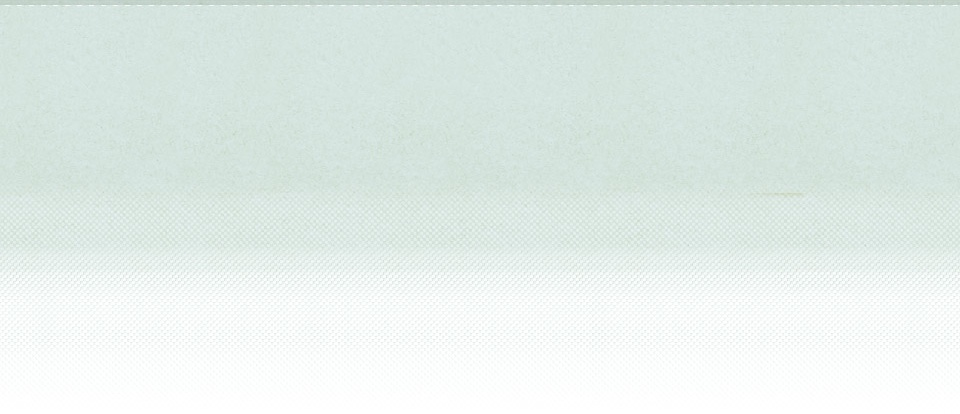
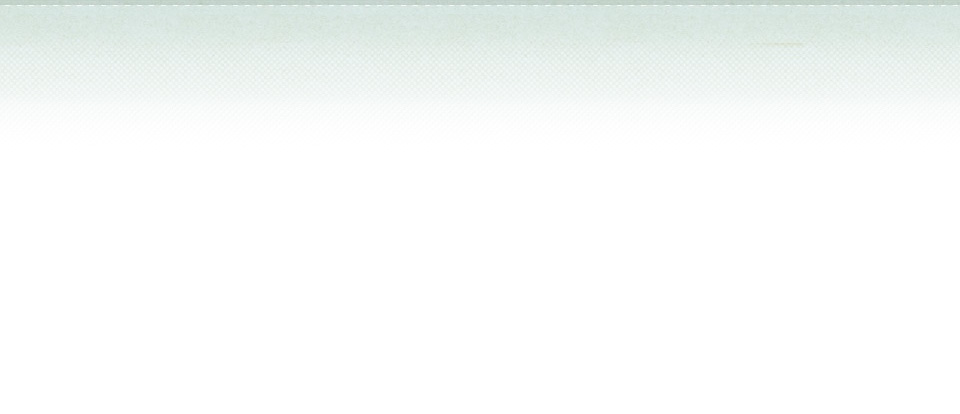
nav updates, changed media url

diff --git a/media/styles/clearspending.css b/media/styles/clearspending.css
@@ -7,10 +7,10 @@
 body,div,dl,dt,dd,ul,ol,li,h1,h2,h3,h4,h5,h6,pre,form,fieldset,input,textarea,optgroup,button,p,blockquote,th,td{margin:0;padding:0;}h1,h2,h3,h4,h5,h6{font-size:100%;font-weight:normal;}table{border-collapse:collapse;border-spacing:0;}caption,th{text-align:left;}ol,ul{list-style:none;}fieldset,img{border:0;}input,textarea,select,optgroup,option,button{font-family:inherit;font-size:100%;}button,input {width: auto;overflow: visible;}optgroup,address,caption,cite,code,dfn,em,strong,th,var{font-style:normal;font-weight:normal;}q:before,q:after{content:'';}abbr,acronym {border:0;}
 dl li{list-style: none;}
 
-a:link { outline: none; color: #68a31d; font-weight: bold; text-decoration: none;}
-a:visited { outline: none; color: #68a31d; font-weight: bold; text-decoration: none;}
-a:hover { outline: none; color: #636466; font-weight: bold; text-decoration: none;}
-a:active { outline: none; color: #68a31d; font-weight: bold; text-decoration: none;}
+a:link { outline: none; color: #dec703; font-weight: bold; text-decoration: none;}
+a:visited { outline: none; color: #dec703; font-weight: bold; text-decoration: none;}
+a:hover { outline: none; color: #cbb102; font-weight: bold; text-decoration: none;}
+a:active { outline: none; color: #dec703; font-weight: bold; text-decoration: none;}
 
 body {
 	color: #6C6764;
@@ -19,47 +19,59 @@ body {
 }
 
 .clear { clear: both;}
+.clearfix { clear: right; }
 
 p#shortedText { width: 580px;}
 
 #pageBackground { width: 100%; background: #F8F6EC url(../images/below_green_bg.png) top left repeat-x; border-bottom: 23px solid #7B614E; padding: 30px 0 50px; }
 
-h2 { width: 268px; height: 44px; margin-bottom: 25px; }
-h2 a { background: url(../images/clearspending-logo.png) top left no-repeat; width: 311px; height: 52px; display: block; text-indent: -9999em; }
+h2 { width: 354px; height: 59px; margin-bottom: 20px; padding-top: 35px; float: left; }
+h2 a { background: url(../images/logo.png) top left no-repeat; width: 354px; height: 59px; display: block; text-indent: -9999em; }
 
-#contentWrapper #mainContainer { width: 940px; background: #FFF; border-radius: 6px; -moz-border-radius: 6px; -webkit-border-radius: 6px; margin: -90px auto 80px; border: 1px solid #ddd7d7; padding: 0;}
+#contentWrapper #mainContainer { width: 940px; margin: 0 auto 80px; padding: 0;}
 #pageMain { margin: 35px 25px 50px; }
 
-#header { width: 940px; margin: 0 auto;}
+#header { width: 940px; margin: 0 auto; margin-bottom: 50px; }
 
-#ltColumn, .ltColumn { width: 565px; margin-right: 30px; float: left;}
-#rtColumn, .rtColumn { width: 265px; margin-left: 30px; float: left;}
+.module { margin-bottom: 50px; }
 
-#nav { width: 940px; height: 35px; background: #85BE3D url(../images/bg_nav.jpg) bottom left repeat-x; -moz-border-radius-topleft: 5px; -moz-border-radius-topright: 5px; -webkit-border-top-left-radius: 5px; -webkit-border-top-right-radius: 5px;}
-#nav li {  float: left;  text-transform: uppercase; width: 115px;}
-#nav li a { color: #F8F6EC; text-decoration: none; font-weight: normal; padding: 8px 0; display: block; text-align: center; width: 115px;}
-#nav li a:hover, body.scorecard #nav li#scorecard a, body.background #nav li#background a, body.analysis #nav li#analysis a, body.methodology #nav li#methodology a, body.media #nav li#media a, body.corrections #nav li#corrections a, body.resources #nav li#resources a, body.feedback #nav li#feedback a, body.summary #nav li#summary a  { color: #fff; background: url(../images/nav_arrow.png) center 27px no-repeat; font-weight: bold; padding: 9px 0 7px;}
+#ltColumn, .ltColumn { width: 555px; margin-right: 25px; float: left;}
+#rtColumn, .rtColumn { width: 285px; margin-left: 25px; float: left;}
 
-#featureBox { background: url(../images/bg_featureBox.jpg) bottom left no-repeat; padding-top: 35px; margin-bottom: 65px;}
-#featureNumber { color: #80C2D6; margin-left: 50px; font-size: 400%; font-weight: bold; display: block; line-height: 50px;}
-#featureTitle { color: #9ec9d6; font-size: 150%; margin-left: 425px; margin-top: -5px; display: block; margin-bottom: 35px;}
-#featureBody { margin-left: 175px;}
+#nav { width: 940px; height: 35px; background: #85BE3D url(../images/bg_nav.jpg) bottom left repeat-x; }
+#nav li {  float: left;  text-transform: uppercase; padding: 0px; background: url(../images/bg_navLine.png) right 5px no-repeat; width:130px; }
+/*#nav li.last { background: none; }*/
+#nav li a { color: #F8F6EC; text-decoration: none; font-weight: normal; padding: 8px 20px; display: block; text-align: center; }
+/*#nav li:hover, #nav li:hover a, body.scorecard #nav li#scorecard, body.scorecard #nav li#scorecard a, body.background #nav li#background, body.background #nav li#background a, body.analysis #nav li#analysis, body.analysis #nav li#analysis a, body.methodology #nav li#methodology, body.methodology #nav li#methodology a,  body.media #nav li#media, body.media #nav li#media a, body.corrections #nav li#corrections, body.corrections #nav li#corrections a, body.resources #nav li#resources, body.resources #nav li#resources a, body.feedback #nav li#feedback, body.feedback #nav li#feedback a, body.summary #nav li#summary, body.summary #nav li#summary a  { color: #5e9913; background-color: #fff; }*/
 
-#featureBox h3 { margin-bottom: 15px;}
-#featureBox p { font-size: 115%; line-height: 23px; padding-right: 30px; padding-bottom: 20px; margin-bottom: 0;}
+#subnav { border-bottom: 1px solid #f3f2f2; }
+#subnav li { padding: 12px 20px 8px; float: left; position:relative; }
+#subnav li a { color: #807c77; font-weight: normal;  }
+#subnav li:hover a { color: #807c77; font-weight: bold;  }
+#subnav li:hover { border-bottom: 3px solid #f3f2f2;  }
+
+#nav ul li ul {left: -9999px; position:absolute; list-style: none; width:130px; z-index:2147483647; }
+#nav ul li ul li { background-color: #84BC3D; padding:0px; float: none; width:130px; margin: 0;}
+#nav ul li:hover ul {left: auto;  }
+#nav ul li ul li:hover {background-color:#609819;}
+
+#featureBox { background: url(../images/bg_featureBox.jpg) center bottom no-repeat; min-height: 320px; }
+#featureBox h3 { margin-bottom: 15px; color: #645253; font-size: 380%; line-height: 50px; }
+#featureBox h3 span { display: block; font-weight: 700; }
+#featureBox p { font-size: 135%; line-height: 30px; padding-right: 30px; margin-bottom: 100px; color: #9a9592; }
+
+#scorecardPromo { background: url(../images/bg_scorecardPromo.jpg) top left no-repeat; padding: 50px 10px 0; text-align: center; height: 240px; }
+#scorecardPromo a { background: url(../images/btn_viewScorecard.png) center top no-repeat; width: 252px; height: 66px; margin: 0 auto;   }
 
 a#scorecardBtn { display: block; width: 322px; height: 45px; background: url(../images/btn_results.png) top left no-repeat; text-indent: -9999em; position: relative; top: 20px;}
 
-h3 { color: #43413f; font-size: 180%; margin-bottom: 20px; text-transform: uppercase; line-height: 28px;}
+h3 { color: #645253; font-size: 200%; margin-bottom: 25px; line-height: 30px; }
+h4 { font-size: 170%; line-height: 28px; font-weight: normal; margin-bottom: 20px; }
 #summary h3 { text-transform: none;}
 #homeltColumn h3, #homertColumn h3  { text-transform: capitalize;}
 
-h4 { color: #636466; font-size: 130%; font-weight: bold; line-height: 130%; margin-bottom: 15px; margin-top:25px;}
 #rtColumn h4 { margin-top: 0px;}
 h5 { margin-bottom: 10px; font-weight: bold; color: #636466;}
-
-#homeltColumn { width: 345px; margin-right: 25px; float: left;}
-#homertColumn { float: left; width: 495px; margin-left: 25px;}
 
 #reporting { background: url(../images/header_reporting.jpg) top center no-repeat; padding-top: 55px; margin-bottom: 40px;}
 #metrics { background: url(../images/header_metrics.jpg) top center no-repeat; padding-top: 55px;}
@@ -107,7 +119,7 @@ span#keyTitle, ul#bottom-legend { float: left;}
 span#keyTitle { padding-top:2px; font-weight: bold; margin-right: 10px;}
 #agencyKey { margin-top: 15px;}
 
-.tip { font-family: Georgia, Times, "Times New Roman", serif; font-style: oblique; font-size: 95%;}
+.tip { font-family: Georgia, Times, "Times New Roman", serif; font-style: oblique; font-size: 95%; margin-bottom: 20px; }
 
 #graph { float: left; }
 .graph { float: left; }
@@ -173,7 +185,7 @@ th..headerSortUp:nth-child(1), th.headerSortUp:nth-child(2) { background: url(..
 #pageMain a.name:hover { text-decoration: underline; }
 
 /*buttons*/
-button { text-indent: -9999em; display: block; height: 45px; cursor: pointer; border: none;}
+button, .textReplace { text-indent: -9999em; display: block; height: 45px; cursor: pointer; border: none;}
 .submit { width: 124px; background: url(../images/btn_submit.jpg) top left no-repeat; margin-left: 120px; margin-top: 30px;}
 .okBtn { width: 50px; height: 33px; background: url(../images/btn_ok.jpg) top left no-repeat; margin-right: 25px; margin-top: 25px;}
 .noShowBtn { width: 159px; height: 33px; background: url(../images/btn_dontShow.jpg) top left no-repeat; margin-top: 25px;}
@@ -280,7 +292,7 @@ ol#cite li { margin-bottom: 2px;  }
 #summary .legend li { display: inline-block; text-align: center; margin: 5px 0 5px 15px;}
 #summary img { margin-top: 20px;}
 
-#updated { text-indent: -9999em; display: block; background: url(../images/img_updated.png); width: 90px; height: 90px; position: relative; top: -100px; left: 340px; }
+#updated { text-indent: -9999em; display: block; background: url(../images/bg_2012badge.png); width: 127px; height: 105px; float: right; margin-top: -30px}
  
 .spendingOverTime img { float: left; margin-right: 15px;}
 #summary .spendingOverTime .legend { float: left; width: 120px; margin-top: 25px; }

diff --git a/templates/base.html b/templates/base.html
@@ -12,6 +12,8 @@
     <script type="text/javascript" src="{{ STATIC_URL }}scripts/jquery.tablesorter.min.js"></script>
     <script type="text/javascript" src="{{ STATIC_URL }}scripts/jquery.cookie.js"></script>
     <script type="text/javascript" src="{{ STATIC_URL }}scripts/clearspending.js"></script>
+    <script type="text/javascript" src="//use.typekit.net/ktu4xpo.js"></script>
+    <script type="text/javascript">try{Typekit.load();}catch(e){}</script>
     <!-- added by timball  Tue Sep  7 15:12:38 UTC 2010 -->
    <script type="text/javascript">
 
@@ -53,66 +55,57 @@
 <div id="contentWrapper">
     <div id="header">
         <h2><a href="{% url clearspending-index %}"><big>Clearspending</big><small>Making Sense of the Federal Checkbook</small></a></h2>
-        <div id="updated">Updated for 2011!</div>
-    </div>
-    <div id="mainContainer">
-        <div id="nav">
+        <span id="updated">2012 Report</span>
+        <div id="nav" class="clear">
             <ul>
-                <li id="about">
-                    <ul class="sub-nav">
-                    <li id="methodology"><a href="{% url methodology %}">Methodology</a></li>
+                <li id="about"><a href="#">About</a>
+                    <ul>
                     <li id="background"><a href="{% url background %}">Background</a></li>
-                    <li id="feedback"><a href="{% url feedback %}">Feedback</a></li>
+                    <li id="methodology"><a href="{% url methodology %}">Methodology</a></li>
+                    <li class="last" id="feedback"><a href="{% url feedback %}">Feedback</a></li>
                     </ul>
                 </li>
                 <li id="scorecard"><a href="{% url scorecard-index %}">Scorecard</a></li>
                 <li id="analysis"><a href="{% url analysis %}">Results</a></li>
-                <li>More Resources 
-                    <ul class="sub-nav">
-                        <li id="resources"><a href="{% url resources %}">Background Resources</a></li>
+                <li id="resources"><a href="#">Resources</a>
+                    <ul>
+                        <li><a href="{% url resources %}">Links & Data</a></li>
                         <li id="media"><a href="{% url media-index %}">Media</a></li>
                     </ul>
                 </li>
             </ul>
         </div>
-
+        <div id="subnav" class="clear">
+            <ul>
+                <li><a href="#">subnav #1</a></li>
+                <li><a href="#">subnav #1</a></li>
+                <li><a href="#">subnav #1</a></li>
+            </ul>    
+        </div>    
+    </div>
+    <div id="mainContainer" class="clear">
             {% block content %}
             {% endblock content %}
     </div>
-<footer id="mainFooter"> 
-                <div id="footerContent"> 
-                        <div id="contact"> 
-                            <h2>Contact Us</h2> 
-                            <address class="vcard"> 
-                                <span class="fn org"> 
-                                    <a href="http://sunlightfoundation.com" class="url">Sunlight Foundation</a> 
-                                </span> 
-                                <span class="adr"> 
-                                    <span class="street-address">1818 N Street NW</span> 
-                                    <span class="extended-address">Suite 300</span> 
-                                    <span class="locality">Washington</span>,
-                                    <span class="region" title="District of Columbia">DC</span> 
-                                    <span class="postal-code">20036</span> 
-                                </span> 
-                            <span class="tel">202-742-1520</span> 
-                                <a href="callto:+12027421520" class="tel-skype">Call with Skype</a> 
-                            </address> 
-                    </div> 
-                    <div id="aboutSunlight"> 
-                            <h2>About Sunlight</h2> 
-                            <ul> 
-                                <li><a href="/about/">Our Mission</a></li> 
-                                <li><a href="/about/board/">Board &amp; Advisory Board</a></li> 
-                                <li><a href="/about/funding/">How We're Funded</a></li> 
-                                <li><a href="/people/">Our Team</a> and <a href="/jobs/">Jobs</a></li> 
-                            </ul> 
-                        </div> 
-                        <div id="privacyPolicy"> 
-                                <p>Our <a href="/legal/privacy/">privacy policy</a> details how personally identifiable information that is collected on our web sites is handled. Read our <a href="/legal/terms/">terms of service</a>.</p> 
-                            <p>This work by <a href="http://sunlightfoundation.com">Sunlight Foundation</a>, unless <a href="/colophon/">otherwise noted</a>, is licensed under a <a rel="license" href="http://creativecommons.org/licenses/by/3.0/us/">Creative Commons Attribution 3.0 United States License</a>.</p> 
-                        </div> 
-                        <div class="clear"></div> 
-                </div> 
-            </footer>
+    <div class="sf-footerWrapper">
+        <div class="sf-footer container">
+            <div class="row">
+                <div class="span6 signup span-divider">
+                    <h4>Like this Project and Want to Discover Others Like It?</h4>
+                    <span class="tip">Join the Sunlight Foundation's open government community to learn more</span>
+                    <form action="/subscribe/" method="post" id="sfapp-subscribe-form" class="form-inline">
+                        {% csrf_token %}
+                        <input type="text" name="email" placeholder="your email address">
+                        <input type="text" name="zipcode" placeholder="your zip code">
+                        <button type="submit" class="btn btn-sunlight">Sign Up</button>
+                    </form>
+                </div>
+                <div class="span6 terms">
+                    <p>Our <a href="http://sunlightfoundation.com/legal/privacy/">privacy policy</a> details how personally identifiable information that is collected on our web sites is handled. Read our <a href="http://sunlightfoundation.com/legal/terms/">terms of service</a>.</p>
+                    <p>This work by <a href="http://sunlightfoundation.com">Sunlight Foundation</a>, unless <a href="http://sunlightfoundation.com/colophon/">otherwise noted</a>, is licensed under a <a href="http://creativecommons.org/licenses/by/3.0/us/">Creative Commons Attribution 3.0 United States License</a>.</p>
+                </div>
+            </div>
+        </div>
+    </div>
 </div>
 </body></html>

diff --git a/templates/index.html b/templates/index.html
@@ -1,52 +1,38 @@
 {% extends "base.html" %}
 {% block content %}
 <div id="featureBox">
-    <span id="featureNumber">$1,306,120,795,761</span>
-    <span id="featureTitle">Broken Spending Reporting in 2010</span>
-    <div id="featureBody">
-        <h3>How Reliable is USASpending.gov?</h3>
-        <p>We've taken data from other federal reporting systems and compared it with the data found in USASpending.gov across three categories: <strong>Consistency</strong>, <strong>Completeness</strong> and <strong>Timeliness</strong>. How close are the reported dollar amounts to the yearly estimates? How many of the required fields are filled out in each record? And how long did it take the agency to report the money once it was allocated to a project?</p>
-        <a id="scorecardBtn" href="{% url summary %}">Results Summary</a>
-    </div>
-</div>
-<div id="pageMain">
-    <div id="homeltColumn">
-        <div id="reporting">
-            <h3>How does the federal government report its spending?</h3>
-            <p>The flow of federal spending reporting can get complicated. We've tried to simplify it for you with a <a href="{% url animation %}">step-by-step visualization</a>.</p> 
-        </div>
-        <div id="metrics">
-            <h3>Our Metrics</h3>
-            <p class="no-border">How did we conduct our analysis and what assumptions did we make? What limitations exist with the comparison data we're using? We measured the data across three categories:</p>
-            <ul>
-                <li><strong>Consistency</strong>: A comparison of CFDA obligations and USASpending.gov obligations.</li>
-                <li><strong>Completeness</strong>: A measure of how many required fields are completed. </li>
-                <li><strong>Timeliness</strong>: A measure of how quickly obligations were reported.</li>
-            </ul>
-           <p class="no-border">See our <a href="{% url methodology %}">methodology</a> for more information.</p>
-        </div>
-    </div>
-    <div id="homertColumn">
-        <div id="important">
-            <h3>Top Programs</h3>
-            <p class="no-border">The following are some of the top programs that report well across all three metrics:</p>
-            <ul>
-                <li><a href="/clearspending/program/722/dollars/">Violence Against Women Act Court Training and Improvement Grants</a></li>
-                <li><a href="/clearspending/program/1376/dollars/">Special Education Grants for Infants and Families</a></li>
-                <li><a href="/clearspending/program/1374/dollars/">Special Education Preschool Grants</a></li>
-                <li><a href="/clearspending/program/1315/dollars/">Energy Efficient Appliance Rebate Program</a></li>
-                <li><a href="/clearspending/program/34/dollars/">Cooperative Forestry Research</a></li>
-                <li><a href="/clearspending/program/35/dollars/">Payments to Agricultural Experiment Stations</a></li>
-                <li><a href="/clearspending/program/1241/dollars/">State Senior Environmental Employment Programs</a></li>
-                <li><a href="/clearspending/program/1385/dollars/">Even Start</a></li>
-                <li><a href="/clearspending/program/65/dollars/">Specialty Crop Research Initiative</a></li>
-                <li><a href="/clearspending/program/1417/dollars/">Civic Education Cooperative Education Exchange Program</a></li>
-
-            </ul>
-			<em><a style="float:right;" href="{% url list-best-programs 2010 %}">See all top programs &raquo;</a></em>
-        </div>    
+    <div id="ltColumn">
+        <h3>Keeping Tabs on <span>USASpending.gov</span></h3>
+        <p>We've taken data from other federal reporting systems and compared it with the data found in USASpending.gov across three categories: Consistency, Completeness and Timeliness. How close are the reported dollar amounts to the yearly estimates? How many of the required fields are filled out in each record? And how long did it take the agency to report the money once it was allocated to a project?</p>
     </div>
     <div class="clear"></div>
+</div>
+<div id="pageMain">
+    <div class="module">
+        <h3>Federal Waste by Metric</h3>
+    </div>
+    <div class="ltColumn">
+        <div class="module">
+            <h3>Types of Federal Spending</h3>
+        </div>
+        <div class="module">
+            <h3>On-Time Spending Over Time</h3>
+        </div>
+    </div>
+    <div class="rtColumn">
+        <div class="module" id="scorecardPromo">
+            <h4>See how Government Agencies Measure Up</h4>
+            <a class="textReplace" href="#">View our Scorecard</a>
+        </div>
+        <div class="module">
+            <h4>Download Previous Reports</h4>
+            <ul>
+                <li><a href="#">2010 Spending Report</a></li>
+                <li><a href="#">2010 Spending Report</a></li>
+                <li><a href="#">2010 Spending Report</a></li>
+            </ul>    
+        </div>
+    </div>
 </div>
 
 </div>

diff --git a/media/styles/footer.css b/media/styles/footer.css
@@ -1,24 +1,47 @@
-#footerContent { padding: 0 10px; width: 940px; margin: 0 auto;}
-#mainFooter { background: url(http://assets.sunlightfoundation.com/site/4.0/images/footer.jpg) bottom center repeat-x; color: #c7c2c2; height: 176px; padding: 35px 0 0; margin-top: 0; border: none;}
-#contact, #aboutSunlight { float: left; width: 200px; margin-right: 30px; padding-right: 30px; border-right: 1px dashed #5c5755; height: 155px; font-size: 115%;}
-#privacyPolicy { font-family: Georgia, "Times New Roman", Times, serif; font-style: oblique; font-size: 98%; line-height: 17px; float: left; width: 400px;}
-#mainFooter h2 { font-size: 119%; margin-bottom: 10px; color: #fcfcfc; font-weight: normal; text-transform:uppercase; line-height:22px; height: auto; width: auto; }
-#mainFooter a:link, footer a:active, footer a:visited { color: #c7c2c2; font-weight: normal; text-decoration:underline; }
-#mainFooter a:hover { color: #fcfcfc; }
-#mainFooter span.gc-cs-link { color: #C7C2C2; }
-#aboutSunlight li { margin-bottom: 10px;}
-#aboutSunlight, address { line-height: 22px; }
+.sf-footerWrapper { background-color: #fafaf7; border-top: 1px solid #ece9e9; margin-top: 70px; padding-top: 50px; min-height: 220px;}
+.sf-footer { color: #9f9a97;}
+.sf-footer h4 { font-size: 170%; color: #9f9a97; margin-bottom: 0.5em; line-height: 27px; text-transform: normal; font-family: Georgia, 'Times New Roman', Times, serif; font-weight: normal; }
+.sf-footer .tip { color: #9f9a97;}
 
-.adr { display: block; margin-bottom: 8px;}
-.org { font-size: 110%; margin-bottom: 5px; display: block;}
-footer { padding: 20px; margin-top: 20px; background-color: #f3f2e9; -moz-border-radius: 5px; -webkit-border-radius: 5px; border: 1px solid #e5e4db;}
-
-.tel-skype {
-    background: url(../images/icons/16/skype.png) left 2px no-repeat;
-    display: inline-block;
-    height: 16px;
-    width: 16px;
-    text-indent: -9999em;
-    padding-bottom:2px;
+.sf-footer .span-divider {
+    border-right: 1px dashed #e8e6de;
+    margin-right: -1px;
+    padding-left: 0;
 }
 
+.hero-unit { padding: 40px; border: 1px solid #d6d3d3; border-radius: 0;}
+.withBorder { border: 1px solid #F0EDED; }
+
+.sf-footer .tip { margin-bottom: 20px; display: block;  }
+
+.terms { margin-top: 30px; }
+
+.sf-footer div.terms p{
+    font-family: Georgia, 'Times New Roman', Times, serif;
+    font-size: 95%;
+    font-style: oblique;
+    line-height: 18px;
+}
+
+#sfapp-subscribe-form li { float: left; margin-right: 10px; }
+#sfapp-subscribe-form input[name=email] { width: 140px; }
+#sfapp-subscribe-form input[name=zipcode] { width: 95px; }
+#sfapp-subscribe-form input { border: 2px solid #E7E4DC; height: 18px; padding: 4px;margin-bottom: 9px; -webkit-border-radius: 3px; -moz-border-radius: 3px; border-radius: 3px;}
+
+.span6 { width: 460px; float: left; padding-left: 20px;  }
+
+.btn, .btn:link, .btn:active, .btn:visited {
+    color: #333;
+    border: 3px solid #e9e8e3;
+    font-family: "Georgia", "Times New Roman", "Times", serif;
+    font-style: normal;
+    font-weight: normal;
+    padding: 4px 15px 4px;
+    -webkit-border-radius: 6px;
+       -moz-border-radius: 6px;
+        -ms-border-radius: 6px;
+         -o-border-radius: 6px;
+            border-radius: 6px;
+    text-indent: 0;
+    color: #fff;
+}

diff --git a/urls.py b/urls.py
@@ -18,7 +18,7 @@ urlpatterns = patterns('',
     url(r'^results/', direct_to_template, {'template': 'analysis.html'}, name='analysis' ),
     url(r'^summary/$', direct_to_template, {'template': 'summary.html'}, name='summary' ),
     url(r'^methodology/', direct_to_template, {'template': 'methodology.html'}, name='methodology'),
-    url(r'^media/$', direct_to_template, {'template': 'media.html'}, name='media-index'),
+    url(r'^press/$', direct_to_template, {'template': 'media.html'}, name='media-index'),
     url(r'^background/', direct_to_template, {'template': 'background.html'}, name='background'),
     url(r'^resources/', direct_to_template, {'template': 'resources.html'}, name='resources'),
     url(r'^feedback/$', direct_to_template, {'template':'contact.html'}, name='feedback'),
